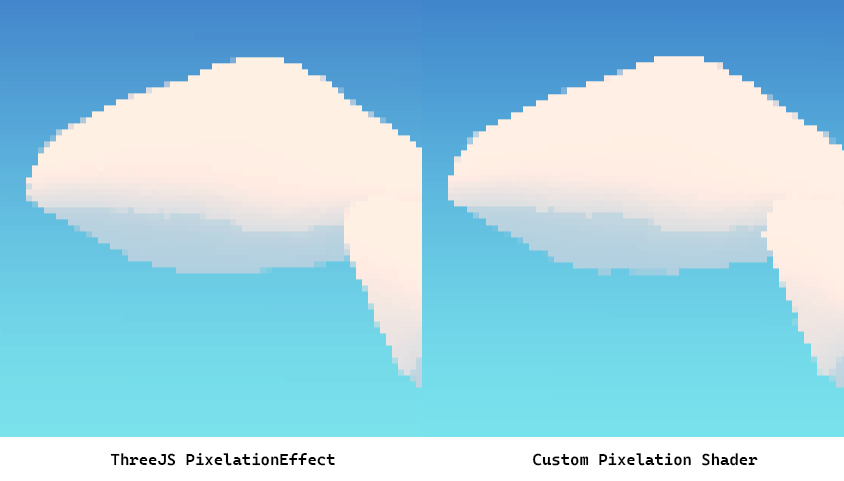
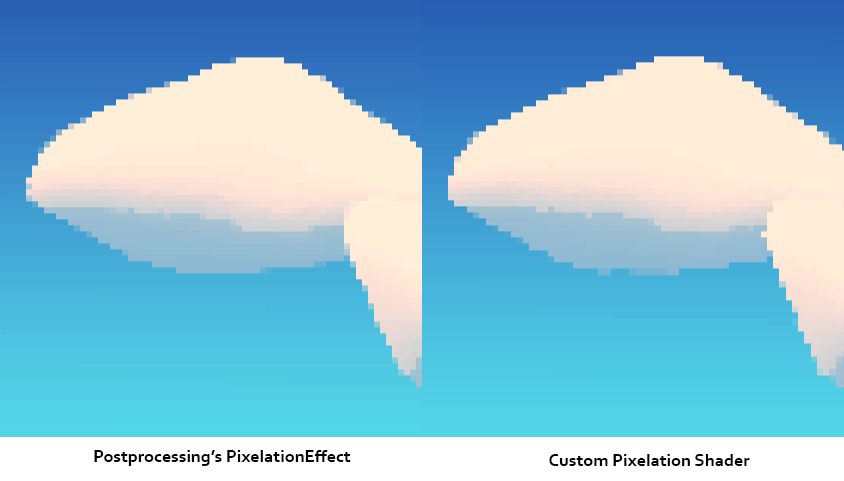
tweak on sunave md and css

diff --git a/app/p/[slug]/page.tsx b/app/p/[slug]/page.tsx
@@ -33,13 +33,13 @@ const PostPage = ( props:any ) => {
 
     return(
         <>
-            <h1 className='text-center mb-5  mr-5 relative' >
+            <h1 className='text-center mb-5  relative' >
                 {post.data.title}
 <Suspense><ToggleButton className="absolute top-0 right-0 translate-y-[-100%]" /></Suspense>
 
             </h1>
 
-            <div className='justify-end gap-1 flex mb-10 mr-5' >{
+            <div className='justify-end gap-1 flex mb-10 flex-wrap' >{
                 post.data.tags.split(',').map( ( tag : string, i : number) =>
                     <TagButton name={tag}/>
                 )}

diff --git a/app/layout.css b/app/layout.css
@@ -9,6 +9,7 @@ body{
     background-color: #f8f8f8;
     color: rgb(34, 34, 34);
     font-size: 16px;
+    overflow-x: hidden;
 }
 
 
@@ -72,6 +73,7 @@ body:has(.open-menu-button.clicked) .contentBody{
     }
 
 }
+
 
 
 /* for main page*/

diff --git a/public/projects/2025-Sunave.md b/public/projects/2025-Sunave.md
@@ -85,6 +85,7 @@ What’s happening here:
 Of course, this only runs when a request is made.
 Here’s what the frontend can send to trigger it:
 
+![google calendar offers ical url](/media/2025_sunave/gcal.png)
 
 ```js
 const requestData = { url: icalUrl };
@@ -216,9 +217,22 @@ Then, when rendering a house, the system looks up the right transform from that 
 
 ## 5. Custom Pixelation Effect
 
-While Three.js does have a built-in pixelation effect, it wasn’t quite what I was looking for.
-Luckily, I came across [this article](https://blenderartists.org/t/can-i-somehow-set-up-a-sharp-low-resolution/1323775/5), which helped me achieve exactly the look I wanted.
+I didn’t originally plan to render this in a pixel art style.
+But I’ve always liked the old-school, low-key vibe of pixel art — and it felt like a natural fit for the mood of Sunset Avenue.
+There’s something about it that gives more weight and solidity to the scene than smooth 3D rendering does — kind of like turning a watercolor into thick acrylic paint.
 
+For post-processing effects, I used the [postprocessing](https://www.npmjs.com/package/postprocessing) library — a common choice in Three.js projects.
+It’s great for things like color adjustment and bloom.
+It even has a built-in pixelation effect, but the result wasn’t quite what I wanted.
+
+Take a look at the right side of the comparison below — you’ll notice some strange tiling in the sky gradient.
+That’s called [color banding](https://upload.wikimedia.org/wikipedia/commons/9/9a/Colour_banding_example01.png), and it’s a common issue when compressing images (like tiny GIFs) or using low-res color sampling.
+![](/media/2025_sunave/pixelationCompare.png)
+
+The default pixelation effect samples every block evenly, regardless of how small the color difference is — which makes gradients look chunky and artificial.
+Unfortunately, I couldn’t tweak it enough to fix that.
+
+But then I stumbled upon [this article](https://blenderartists.org/t/can-i-somehow-set-up-a-sharp-low-resolution/1323775/5), which helped me get the exact look I was after:
 
 
 ```glsl
@@ -233,10 +247,15 @@ void mainImage(const in vec4 inputColor, const in vec2 uv, out vec4 outputColor)
   vec4 color = texture2D(tDiffuse, pixelUv);
 }
 ```
-![](/media/2025_sunave/pixelationCompare.png)
 
-You can see the improvement — especially in the sky gradient.
-Sharper, cleaner, just the way I wanted.
+The key here is `float offset = 1.5/pixelSize;`
+That offset shifts the sample point away from the block edge and closer to the center — helping reduce color banding in gradients.
+If the offset is too small, you’ll sample near edges, causing artifacts.
+If it’s too large, you’ll drift too far into the block, possibly distorting the grid and stretching colors slightly.
+
+1.5 turns out to be a sweet spot — smooth gradients, preserved pixelation, and no weird tiling.
+
+PS. Thank you,Matías Fernández and power of internet community :D
 
 
 ## 6. Sort Events
